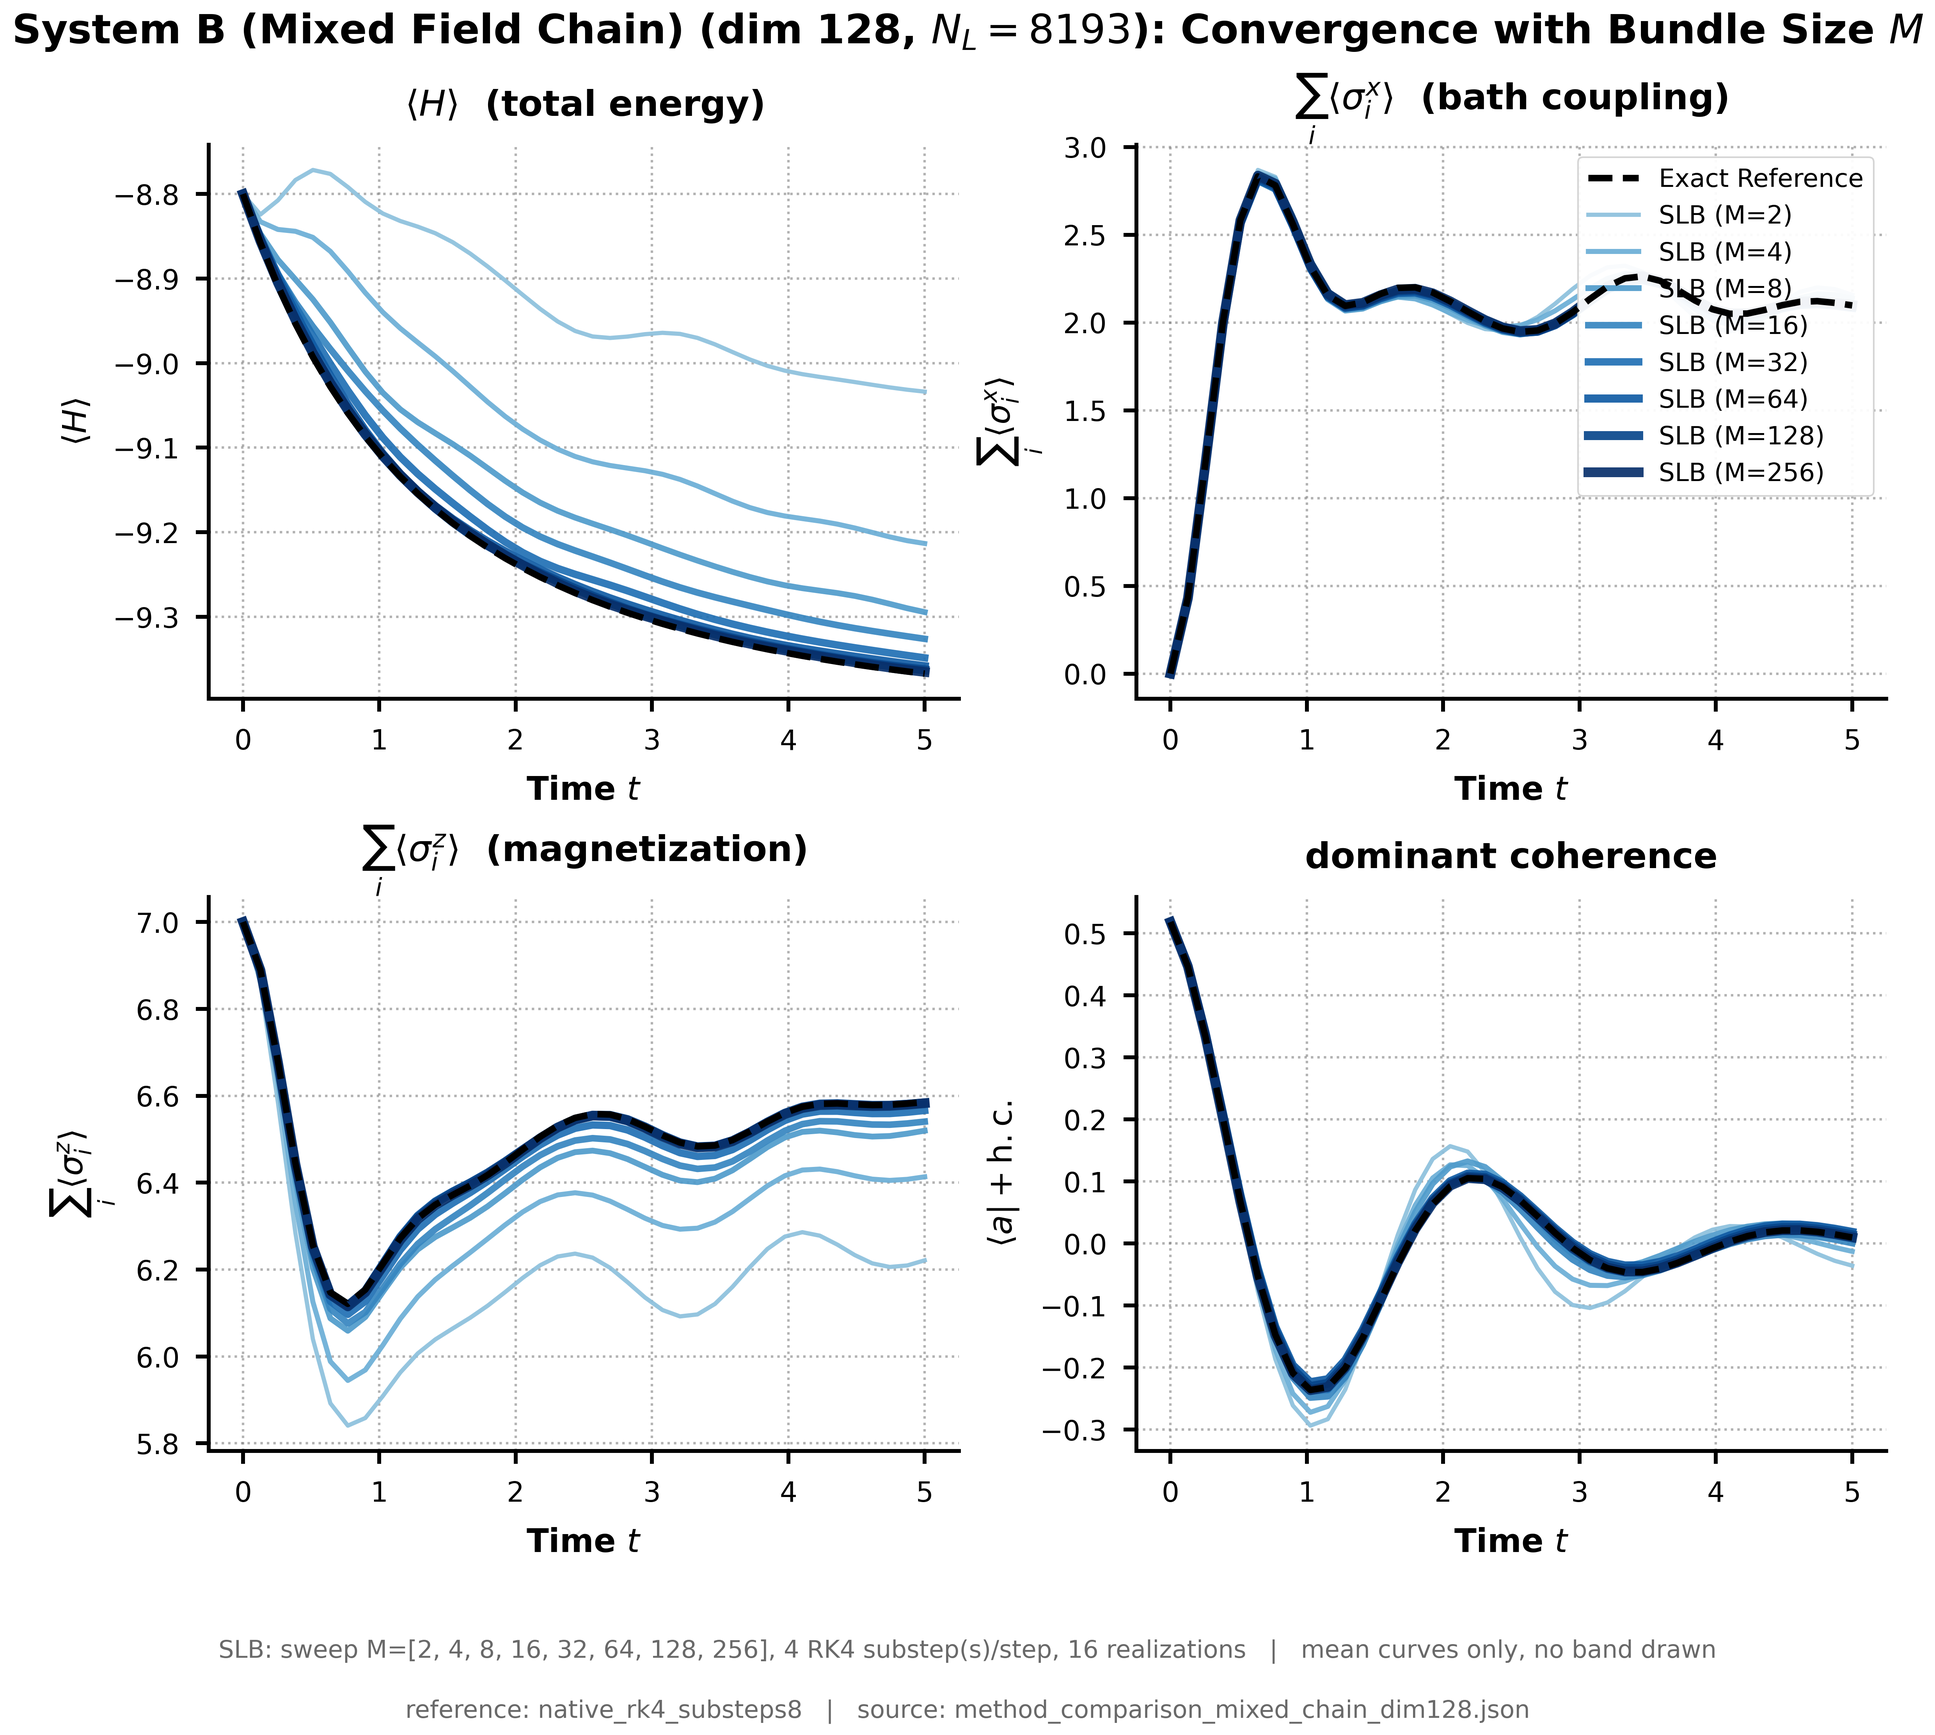
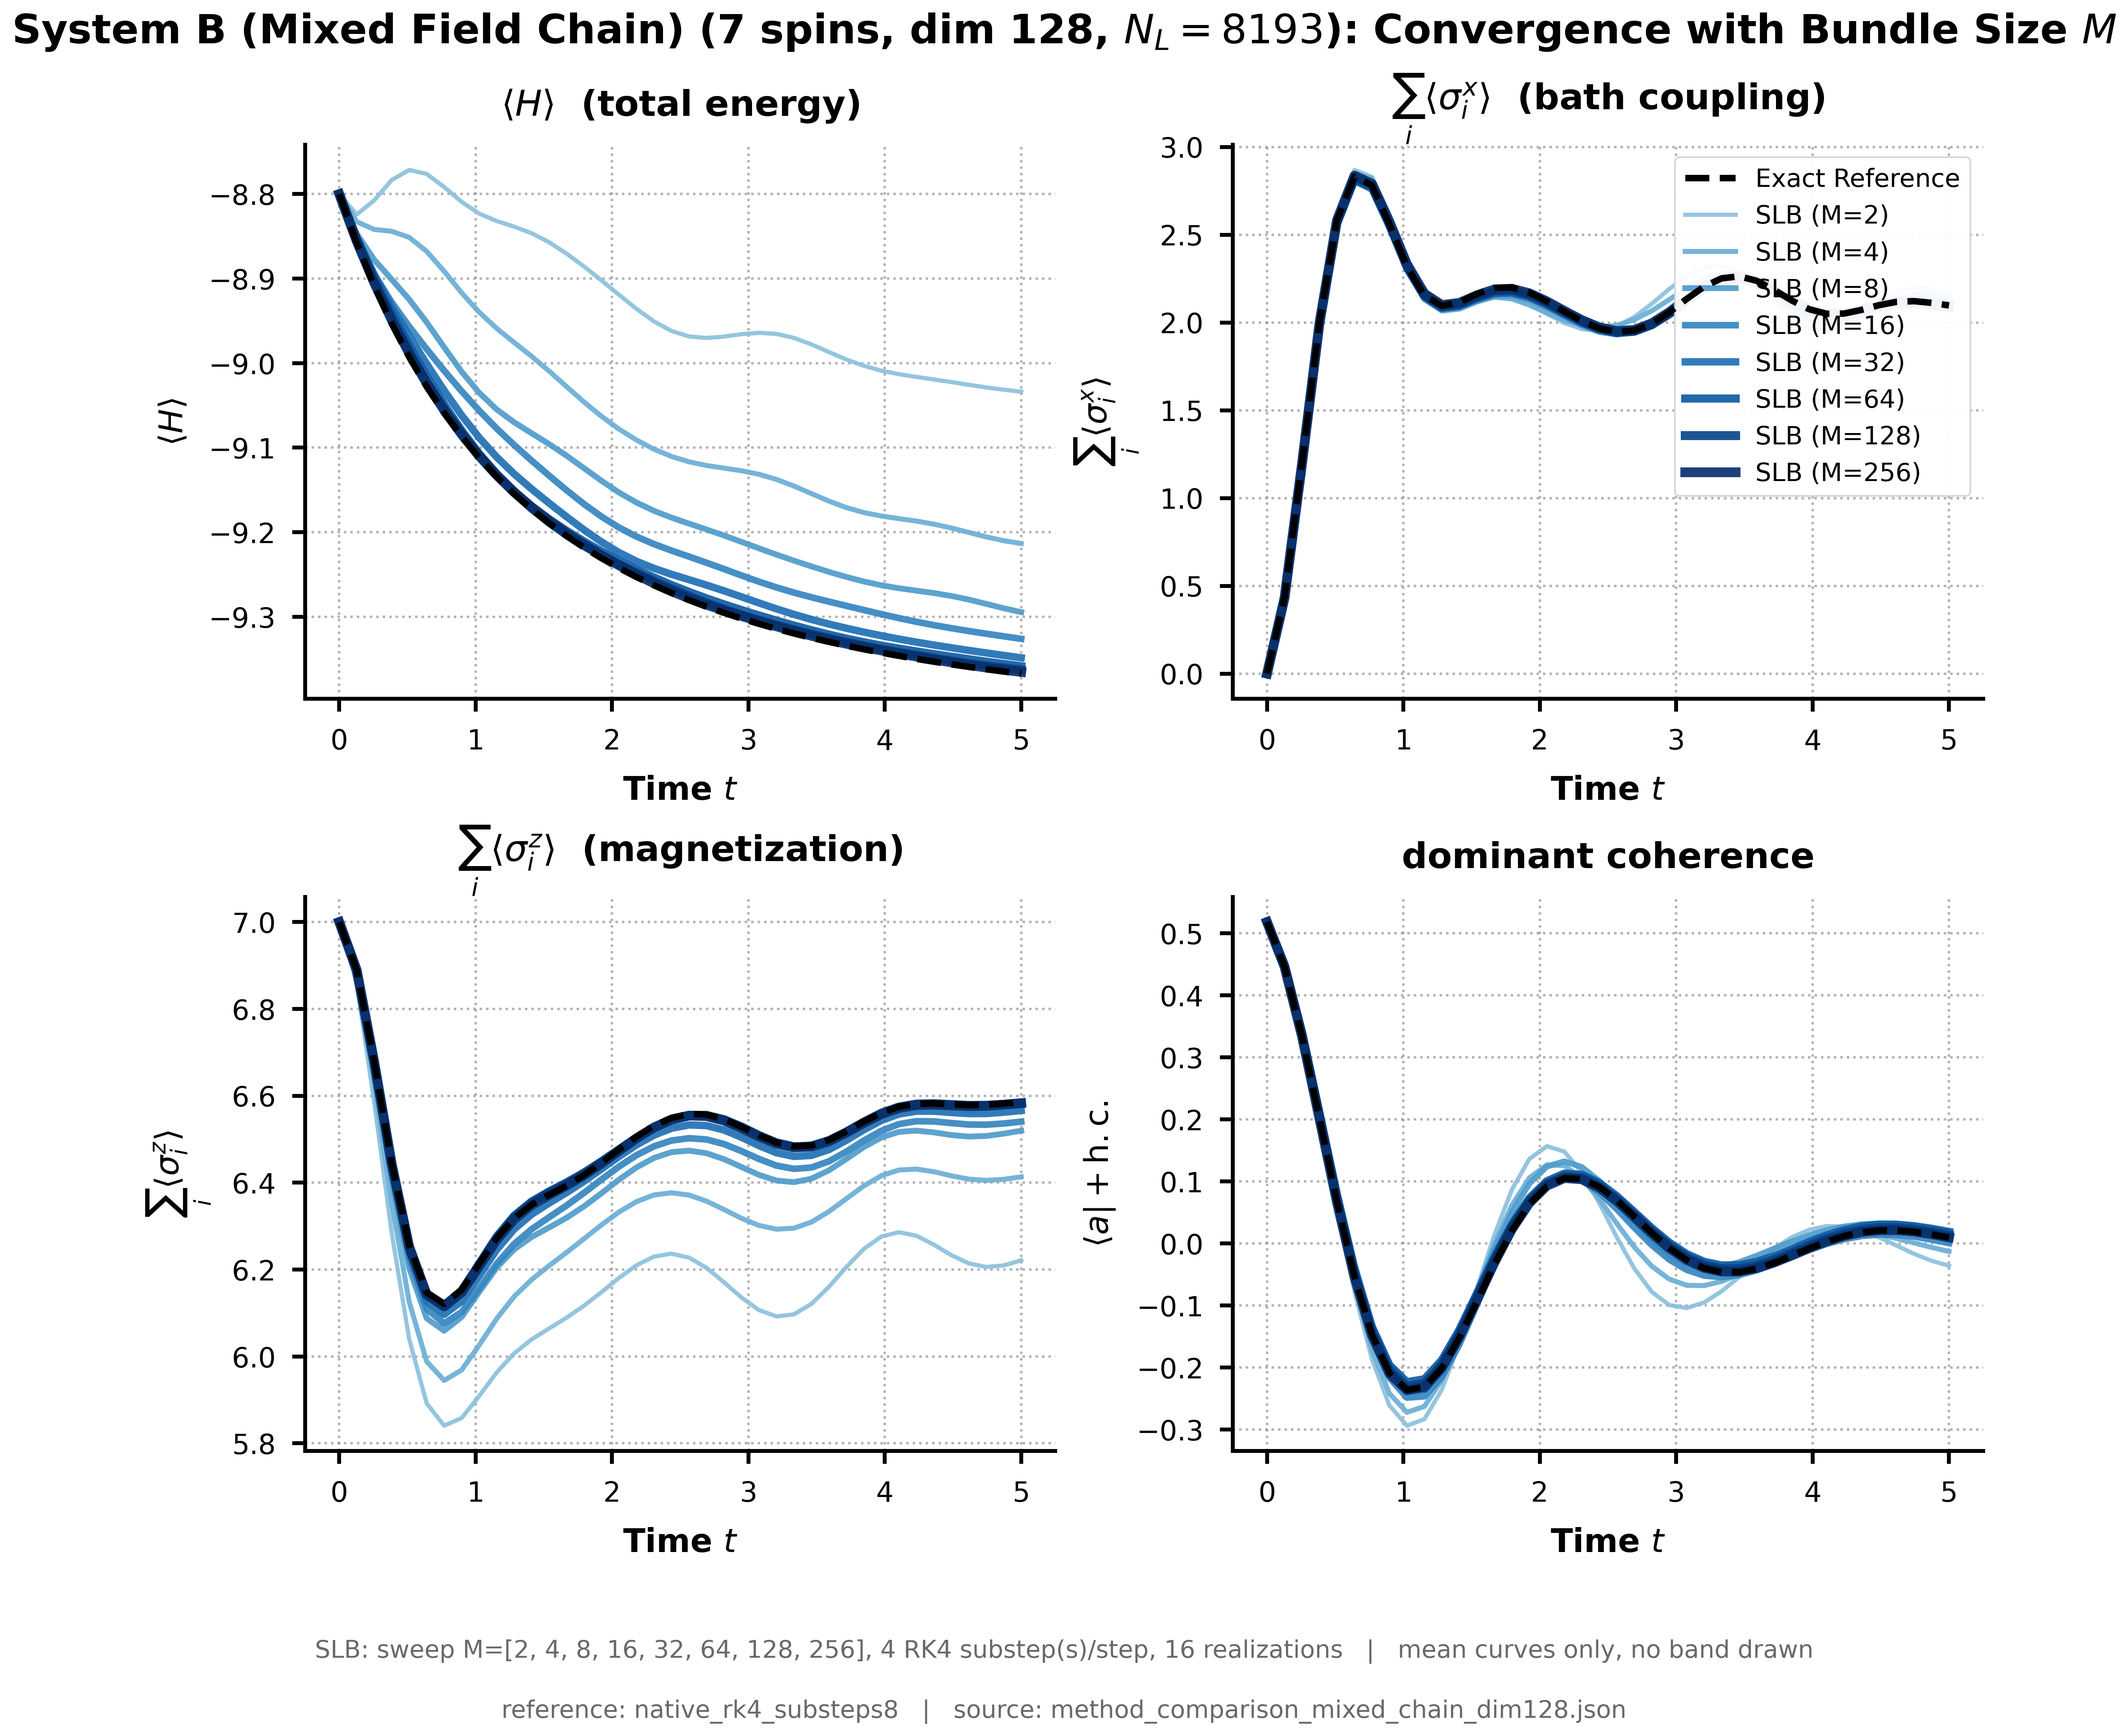
Share the size label, so R1a says how many spins like its neighbours do
R1a's titles read 'dim 512' while R1b's, in the same section, read '9 spins, dim 512'. A Hilbert dimension alone is not what anyone thinks in: 512 is nine spins on the chains and a Fock cutoff of 256 on the oscillator, and those are the numbers a reader compares against their own model.

plot_accuracy_vs_M.py had a private _size_str doing exactly this. Moved to common.size_label and used by both plotters rather than copied, so the two cannot drift apart. Order follows the existing helper -- physical size first, dimension second -- so every Result 1 figure agrees.

Titles now read '9 spins, dim 512' (A), '7 spins, dim 128' (B) and 'Fock cutoff 64, dim 128' (C). The oscillator gets a Fock cutoff rather than a spin count because that is its physical size, and dim is twice it since each oscillator level carries the spin's two states.

The move is behaviour-preserving: regenerating R1b's figures afterwards produced byte-identical PNGs, so only the three convergence figures changed. 176 tests pass, smoke green.

diff --git a/benchmarks/plot_accuracy_vs_M.py b/benchmarks/plot_accuracy_vs_M.py
@@ -34,6 +34,7 @@ import numpy as np
 
 from common import (
     DATA_DIR, add_settings_footer, as_array, format_slb_settings, load_data,
+    size_label,
 )
 
 # --- CONFIGURATION (TOGGLES FOR DECOMPOSITION PLOT) ---
@@ -117,14 +118,6 @@ def _timing_caption(doc):
             f"{t_prop:.1f} s total ({n_real} realizations per M)")
 
 
-def _size_str(name, dim):
-    if name in ("spin_chain", "mixed_chain"):
-        return f"{int(round(math.log2(dim)))} spins, dim {dim}"
-    if name == "oscillator_bath":
-        return f"Fock cutoff {dim // 2}, dim {dim}"
-    return f"dim {dim}"
-
-
 def _reference_label(doc):
     """Human-readable provenance for the exact reference saved with the data."""
     method = doc.get("reference_method")
@@ -193,7 +186,7 @@ def accuracy_figure(plt, name, doc, tlist, reference, curves,
         
     ax.set_xlabel("time")
     ax.set_ylabel(rf"${obs_math}$")
-    ax.set_title(rf"{name} ({_size_str(name, doc['dim'])}, "
+    ax.set_title(rf"{name} ({size_label(name, doc['dim'])}, "
                  rf"$N_L$={doc['n_l']}): {subtitle}")
     ax.legend(frameon=False)
     fig.tight_layout()
@@ -334,7 +327,7 @@ def decomposition_figure(plt, name, doc, tlist, relative=True):
         axes[idx // n_cols, idx % n_cols].set_visible(False)
 
     title_rel = "relative error anatomy" if relative else "error anatomy"
-    fig.suptitle(rf"{name} ({_size_str(name, doc['dim'])}, $N_L$={doc['n_l']}): "
+    fig.suptitle(rf"{name} ({size_label(name, doc['dim'])}, $N_L$={doc['n_l']}): "
                  rf"{title_rel} at the worst moment, fixed sampling")
     fig.tight_layout()
 

diff --git a/benchmarks/plot_convergence_dynamics.py b/benchmarks/plot_convergence_dynamics.py
@@ -49,7 +49,7 @@ from pathlib import Path
 import matplotlib.pyplot as plt
 import numpy as np
 
-from common import add_settings_footer, format_slb_settings
+from common import add_settings_footer, format_slb_settings, size_label
 
 DATA_DIR = Path(__file__).resolve().parent / "data"
 OUT_DIR = Path(__file__).resolve().parent
@@ -195,7 +195,9 @@ def plot_convergence_system_huge(system_name, display_name, observables, dim,
             if i == n_obs - 1:
                 ax.legend(bbox_to_anchor=(1.03, 1.0), loc='upper left', framealpha=0.95, fontsize=16, edgecolor='lightgray')
 
-    fig.suptitle(f"{display_name} (dim {dim}, $N_L={point.get('n_l', '?')}$): Convergence with Bundle Size $M$",
+    fig.suptitle(f"{display_name} ({size_label(system_name, dim)}, "
+                 f"$N_L={point.get('n_l', '?')}$): "
+                 f"Convergence with Bundle Size $M$",
                  fontsize=25, fontweight='heavy', y=0.99 if n_obs == 4 else 1.05)
 
     plt.tight_layout()

diff --git a/benchmarks/common.py b/benchmarks/common.py
@@ -426,6 +426,21 @@ def format_mcsolve_settings(*, ntraj, atol=None, rtol=None,
     return s
 
 
+def size_label(system: str, dim: int) -> str:
+    """How a system's size reads on a figure: the physical size, then the dim.
+
+    A Hilbert dimension alone is not what anyone thinks in -- 512 means nine
+    spins on the chains and a Fock cutoff of 256 on the oscillator, and those
+    are the numbers a reader compares against their own model. Every Result 1
+    figure goes through here so they cannot disagree with each other.
+    """
+    if system in ("spin_chain", "mixed_chain"):
+        return f"{int(round(math.log2(dim)))} spins, dim {dim}"
+    if system == "oscillator_bath":
+        return f"Fock cutoff {dim // 2}, dim {dim}"
+    return f"dim {dim}"
+
+
 def add_settings_footer(fig, *segments, y=-0.02, fontsize=9, wrap_chars=170):
     """Place one uniform settings caption centred below the whole figure.
 
